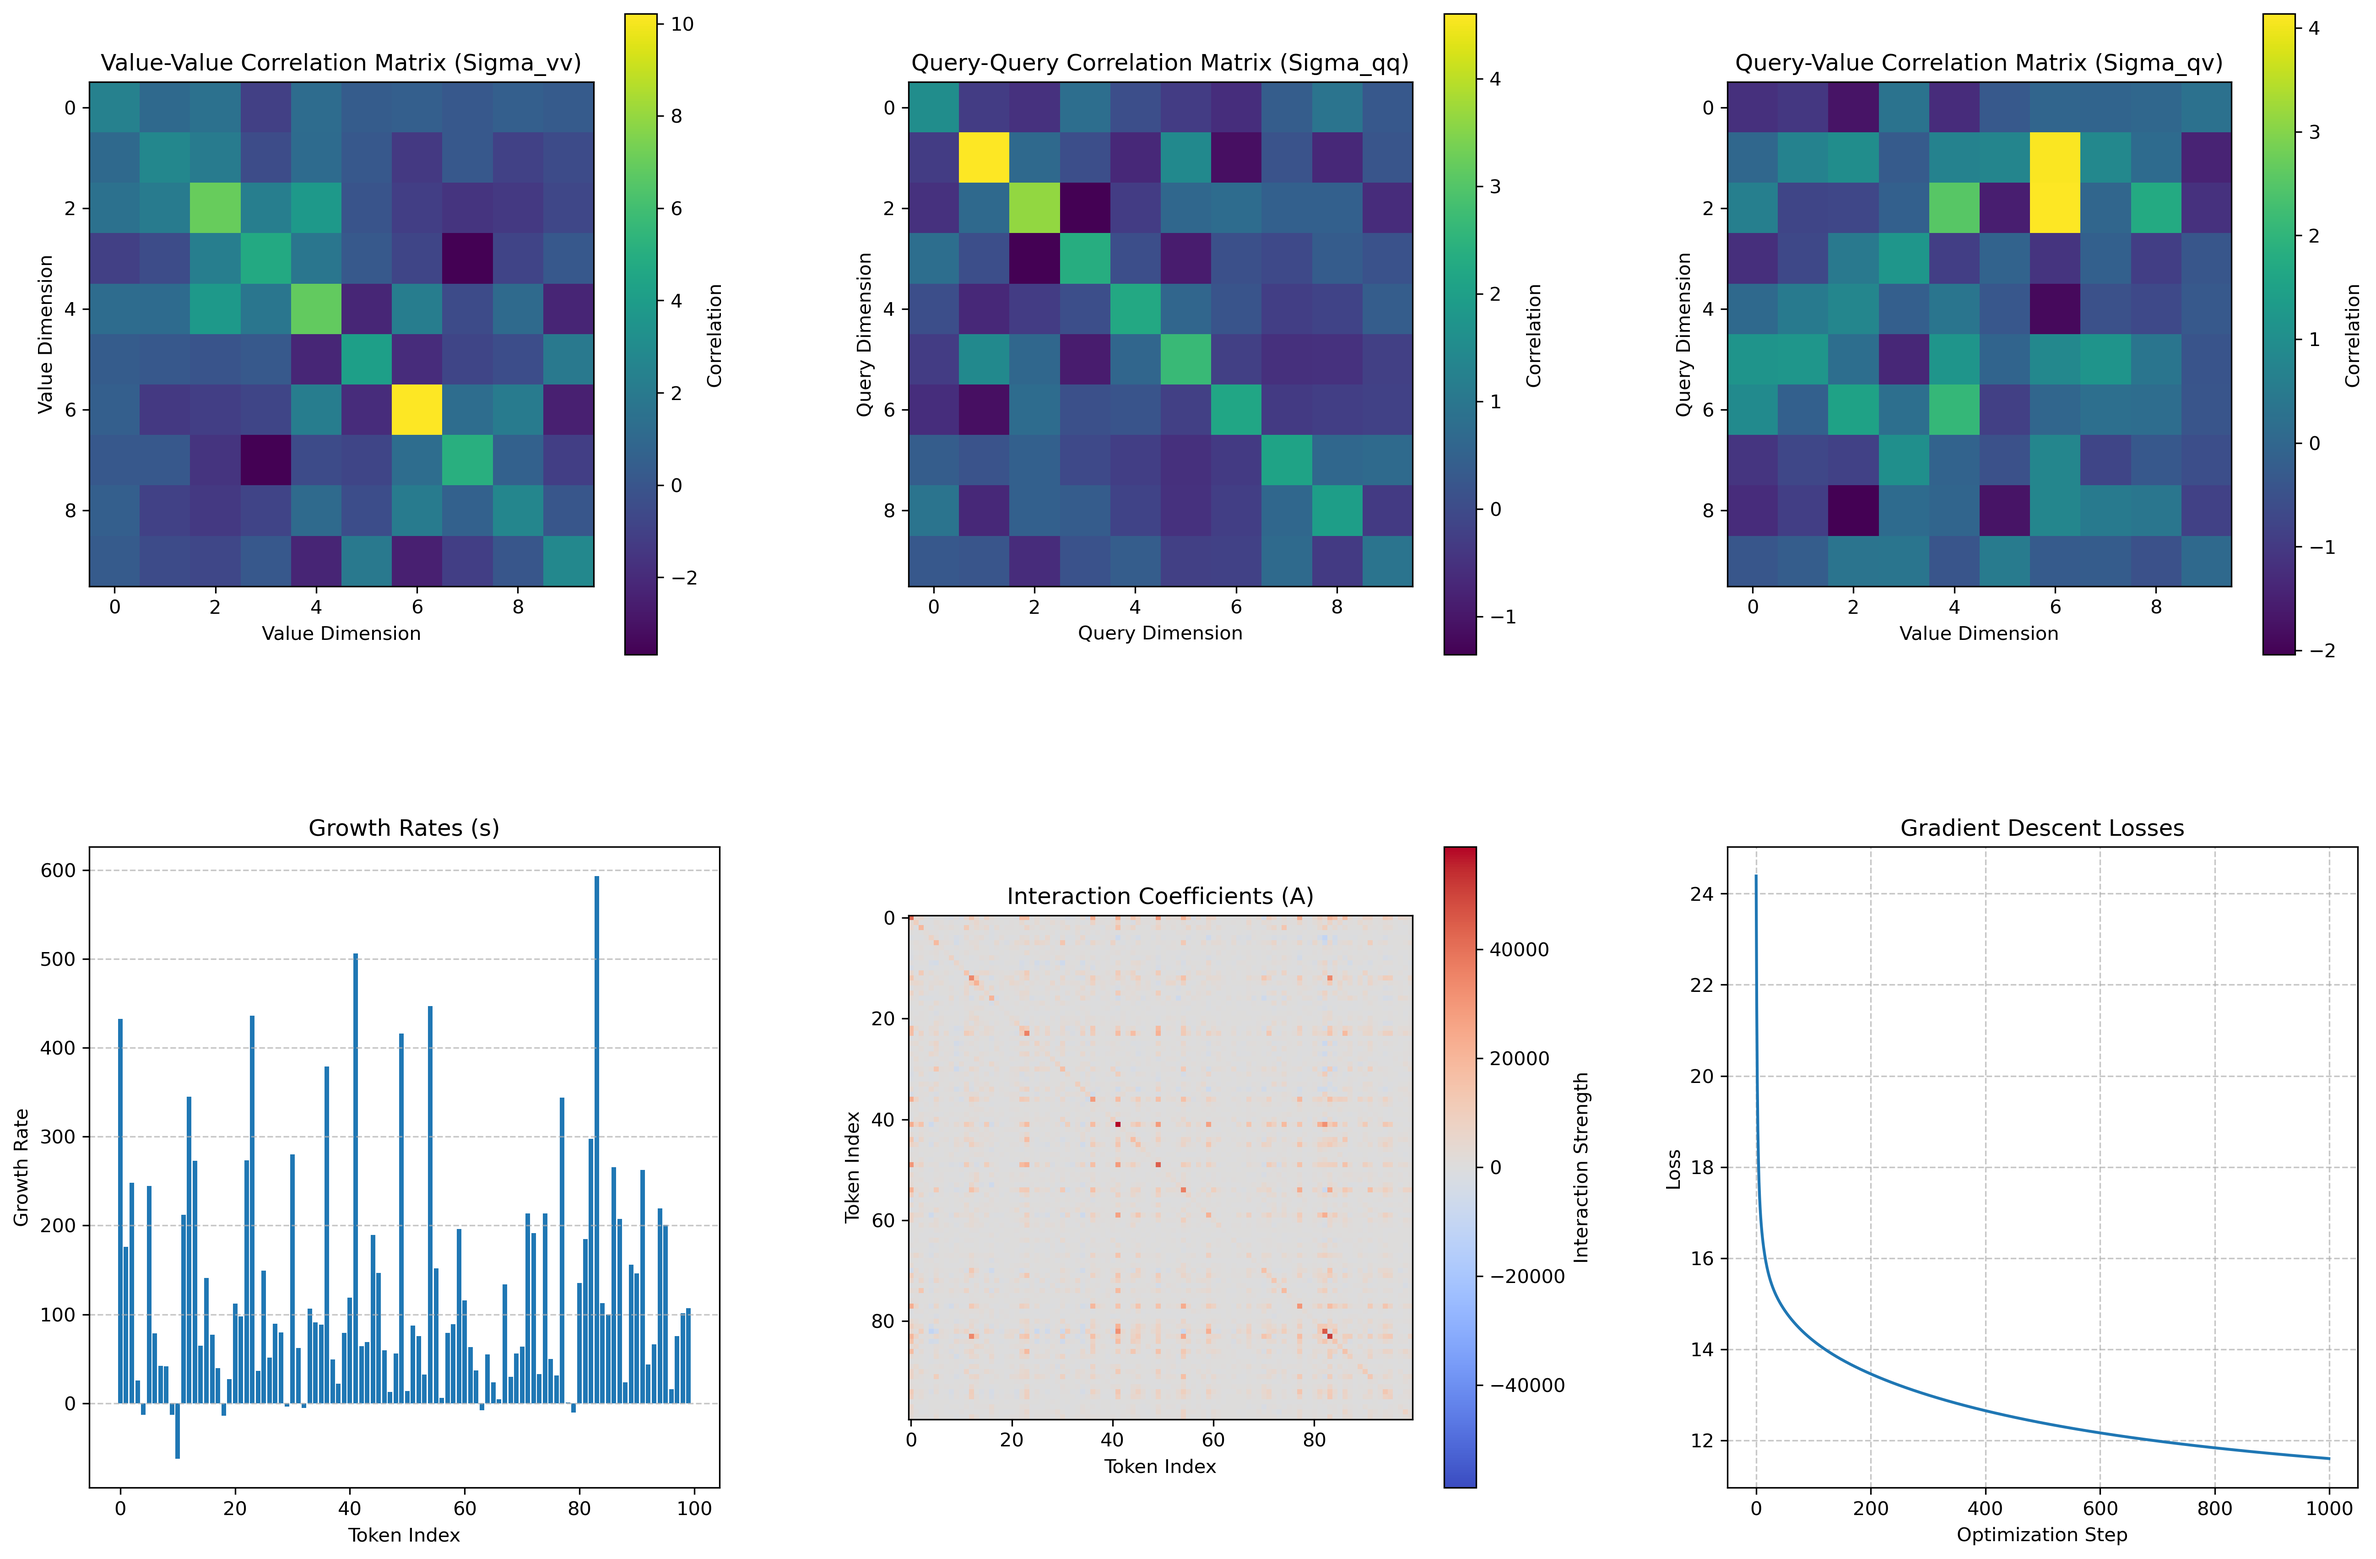
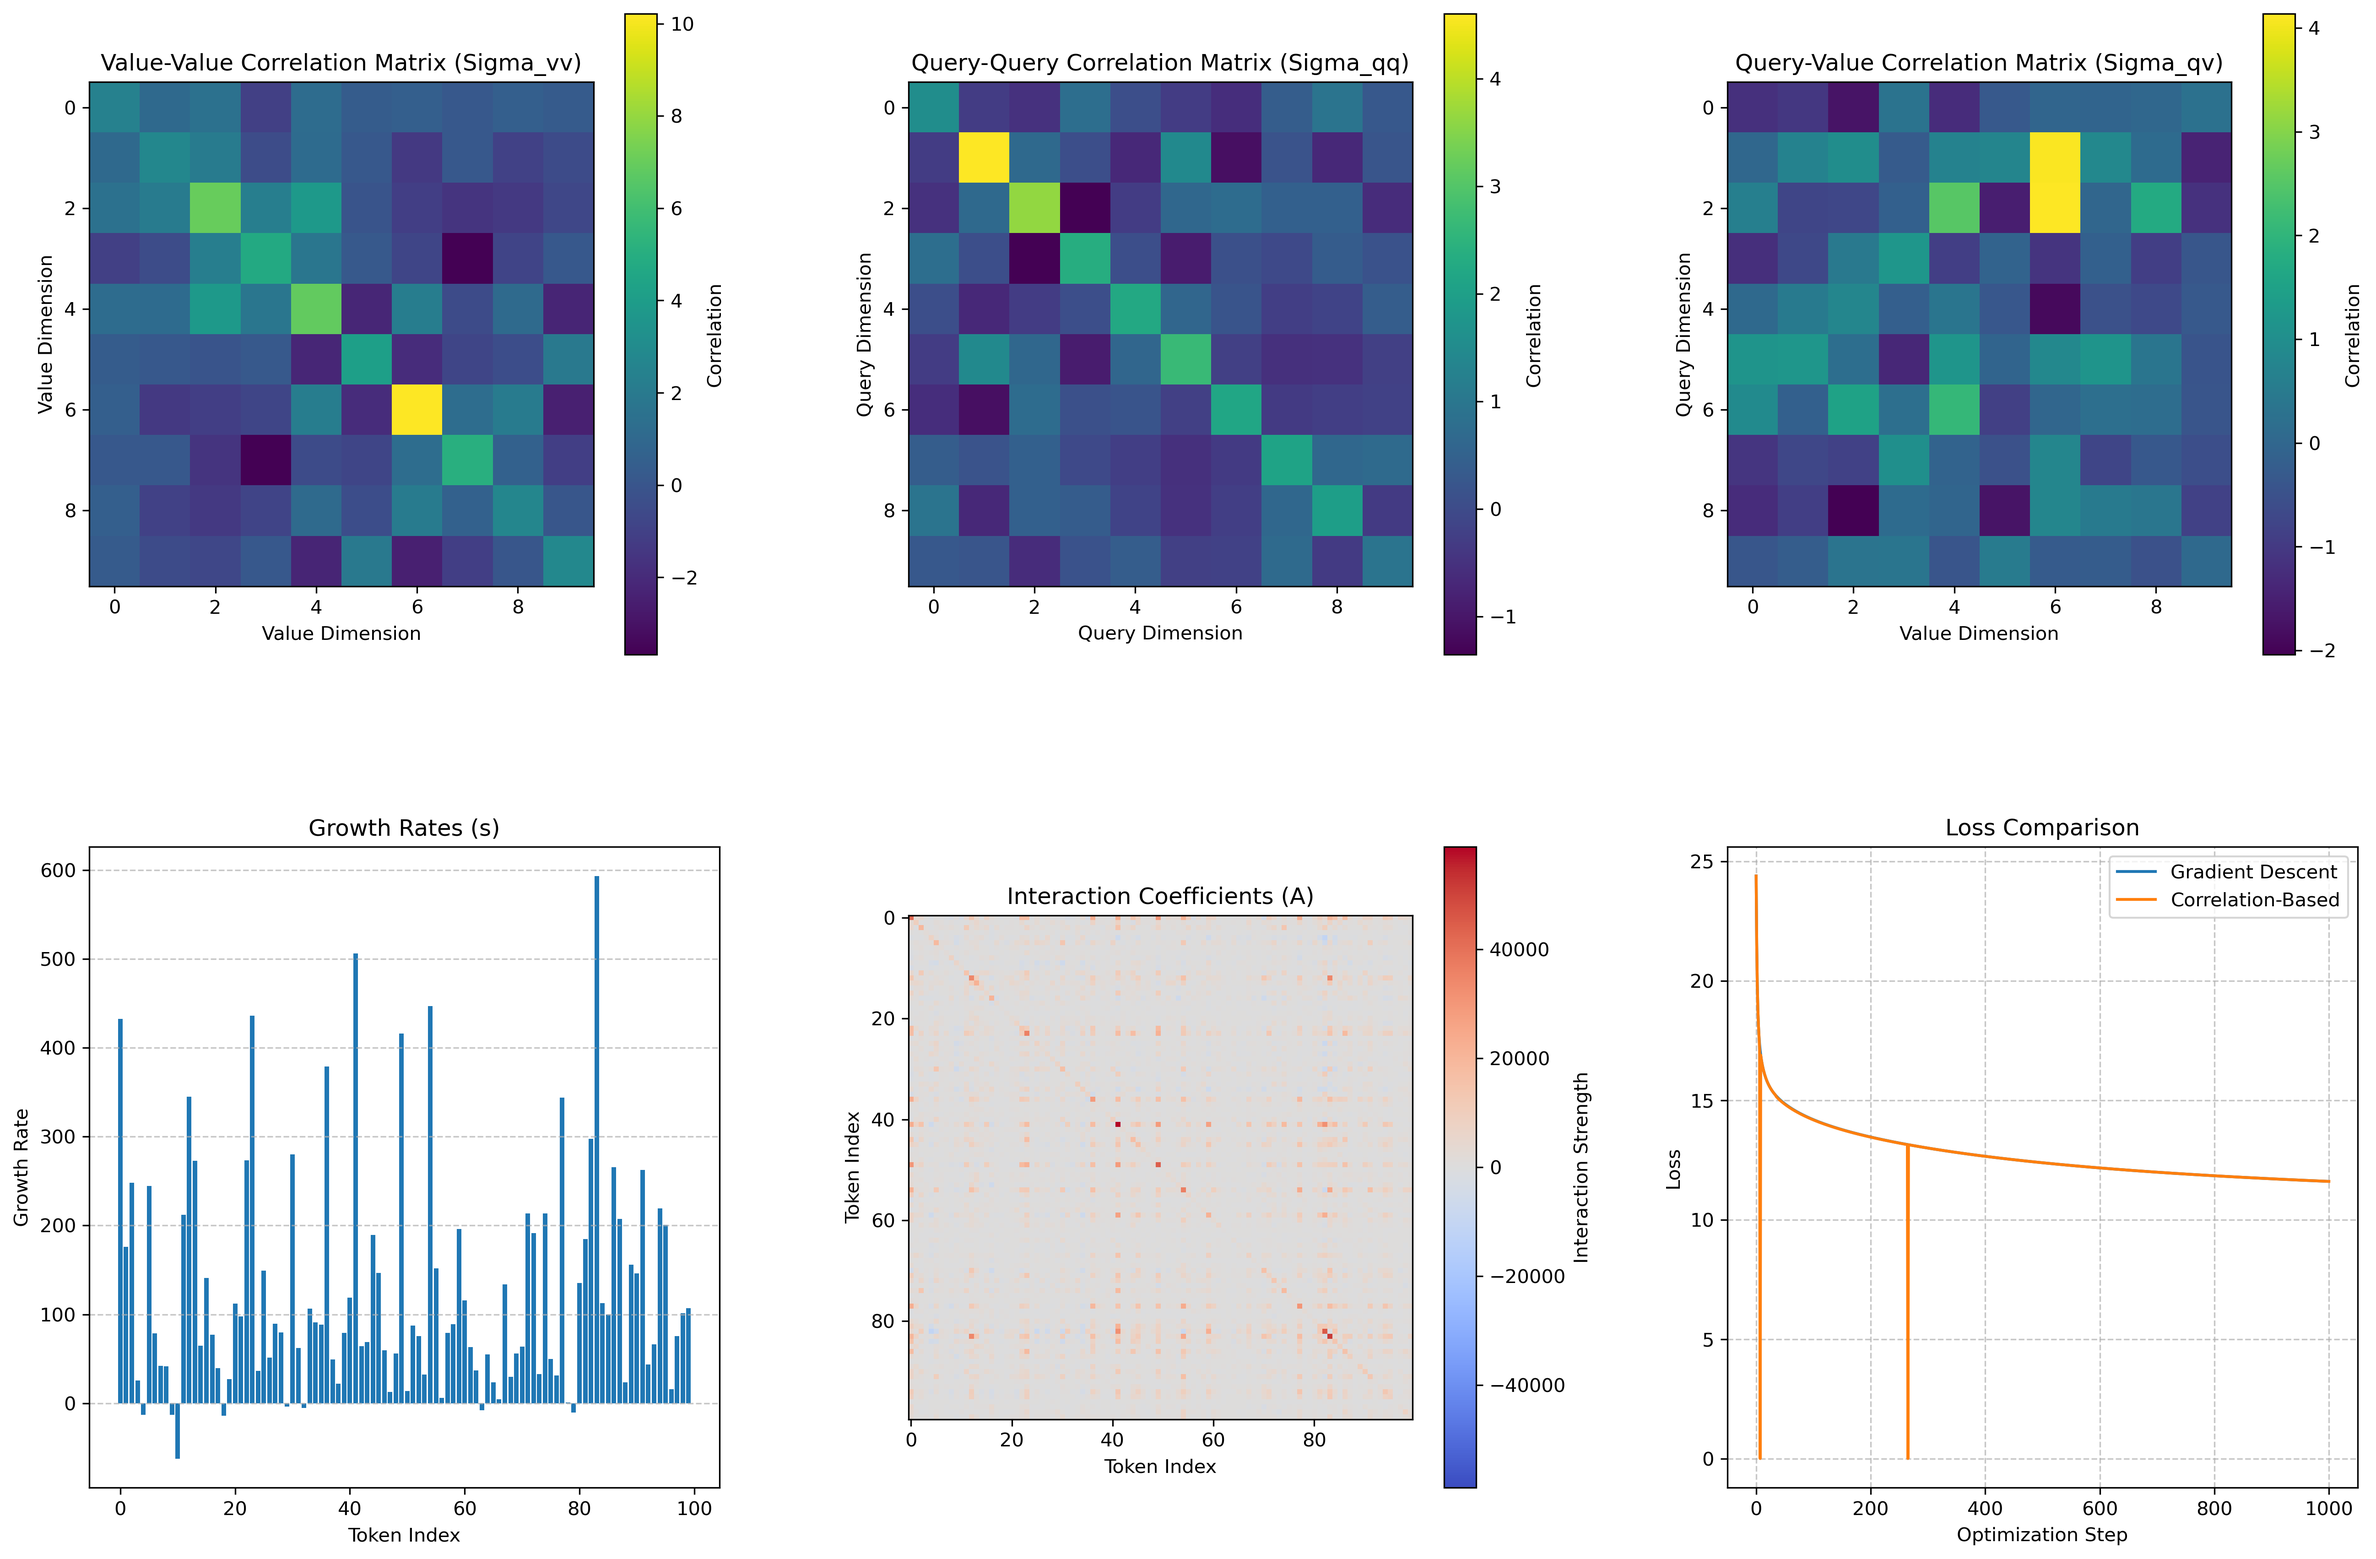
plot comparison of losses, still some issues to fix with callback

diff --git a/ecoattention/memory.py b/ecoattention/memory.py
@@ -261,26 +261,31 @@ class CorrelationBasedMemory(BaseCorrelationMemory):
         self.compute_ecological_params()
 
         if store_losses:
-            losses = torch.zeros(int(t_max / dt))
+            losses = torch.zeros(int(t_max / dt) + 1)
             def store_loss(w, t):
+                self.w = w
                 losses[int(t / dt)] = self.compute_cost().item()
-        else:
-            losses = None
+            store_loss(self.w, 0)
         
-        self.w = integrate.integrate_linear(
-            w_0=torch.zeros_like(self.w),
-            s=self.s,
-            A=self.A,
-            t_max=t_max,
-            dt=dt,
-            callback=store_loss if store_losses else None
-        )
-
-        if store_losses:
+            self.w = integrate.integrate_linear(
+                w_0=torch.zeros_like(self.w),
+                s=self.s,
+                A=self.A,
+                t_max=t_max,
+                dt=dt,
+                callback=store_loss if store_losses else None
+            )
             return losses
         else:
+            self.w = integrate.integrate_linear(
+                w_0=torch.zeros_like(self.w),
+                s=self.s,
+                A=self.A,
+                t_max=t_max,
+                dt=dt
+            )
             return self.compute_cost()
-
+        
     def fit_exact(self, q: torch.Tensor, v: torch.Tensor) -> torch.Tensor:
         """
         Fit by computing optimal weights directly.

diff --git a/simulations/make_figure.py b/simulations/make_figure.py
@@ -34,9 +34,7 @@ correlation_memory.compute_correlations(Q, V)
 correlation_memory.compute_ecological_params()
 
 losses = gradient_descent_memory.fit(Q, V, lr=1e-6, n_steps=1000)
-
-corr_loss = correlation_memory.fit(Q, V, t_max=1000 * 1e-6, dt=1e-6, store_losses=False)
-print(corr_loss)
+corr_loss = correlation_memory.fit(Q, V, t_max=1000 * 1e-6, dt=1e-6, store_losses=True)
 
 # Create a figure with 5 subplots: 3 for correlation matrices, 1 for growth rates, 1 for interaction coefficients
 fig, axes = plt.subplots(2, 3, figsize=(18, 12))
@@ -80,11 +78,13 @@ axes[1, 1].set_xlabel('Token Index')
 axes[1, 1].set_ylabel('Token Index')
 
 # Plot losses from gradient descent
-axes[1, 2].plot(losses.detach().numpy())
-axes[1, 2].set_title('Gradient Descent Losses')
+axes[1, 2].plot(losses.detach().numpy(), label='Gradient Descent')
+axes[1, 2].plot(corr_loss.detach().numpy(), label='Correlation-Based')
+axes[1, 2].set_title('Loss Comparison')
 axes[1, 2].set_xlabel('Optimization Step')
 axes[1, 2].set_ylabel('Loss')
 axes[1, 2].grid(True, linestyle='--', alpha=0.7)
+axes[1, 2].legend()
 
 # Adjust spacing to prevent legend overlap
 plt.tight_layout(pad=3.0)
